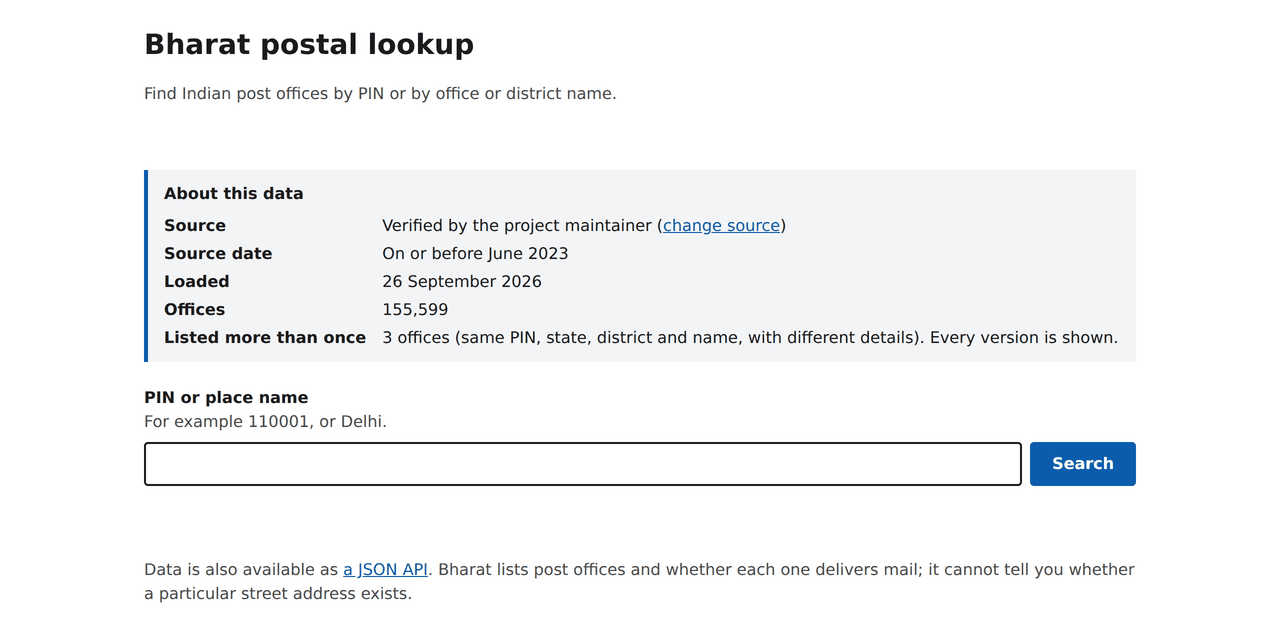
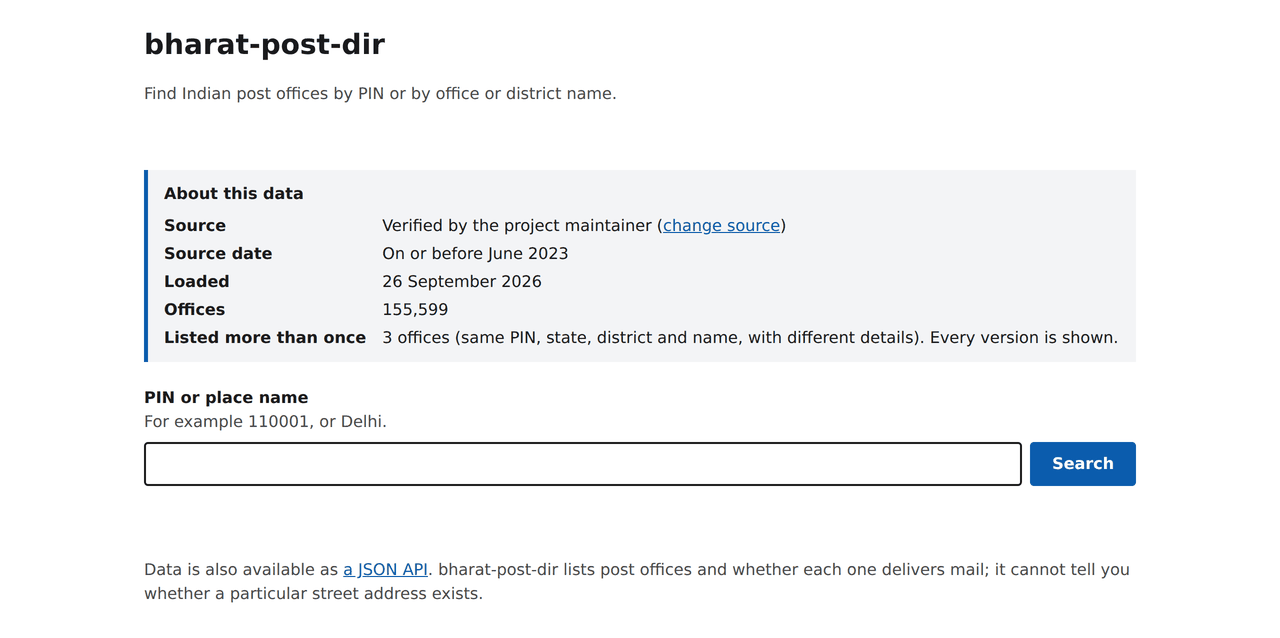
Rename the project to bharat-post-dir and make technical names generic
Everywhere people read the project's name (page titles and headings, the
API docs title, README, CONTRIBUTING, AGENTS, the share note, messages
and comments) it is now bharat-post-dir. The README starts directly with
its description, without a name heading.

Technical names are generic rather than project-named:
BHARAT_ALLOW_SOURCE_CHANGE is now SITE_ALLOW_SOURCE_CHANGE, the upload
cookie is dataset_upload, the container database is /data/db.sqlite3,
the export is post-offices-<date>-<sha>.json, and the documented Docker
names are app, app-demo, app-data and app-net. Nothing is released yet,
so no one depends on the old names.

The screenshots and social preview are retaken with the new name.

Claude-Session: https://claude.ai/code/session_01MUGbgaJkAhwdKZJnZ6vtsr

Changed region(s): [[0.0938, 0.8636, 0.875, 0.953], [0.0938, 0.0596, 0.375, 0.0893]]

diff --git a/postal/templates/postal/source.html b/postal/templates/postal/source.html
@@ -1,6 +1,6 @@
 {% extends "postal/base.html" %}
 
-{% block title %}{% if form.errors %}Error: {% endif %}Change source – Bharat postal lookup{% endblock %}
+{% block title %}{% if form.errors %}Error: {% endif %}Change source – bharat-post-dir{% endblock %}
 
 {% block heading %}Change source{% endblock %}
 
@@ -18,14 +18,14 @@
   {% if saves %}
   <p>The whole file is checked before anything changes. If any row is invalid, the current directory stays exactly as it is. A valid file replaces every office at once.</p>
   {% else %}
-  <p>The whole file is checked first; if any row is invalid, nothing is kept. A valid file is temporary: only this browser sees it, on the lookup page and in search, for {{ hours }} hours or until you go back to the default dataset. The saved directory, the API and the whole-directory download are not changed. To replace the saved directory, run Bharat with <code>DJANGO_DEBUG=true</code>.</p>
+  <p>The whole file is checked first; if any row is invalid, nothing is kept. A valid file is temporary: only this browser sees it, on the lookup page and in search, for {{ hours }} hours or until you go back to the default dataset. The saved directory, the API and the whole-directory download are not changed. To replace the saved directory, run bharat-post-dir with <code>DJANGO_DEBUG=true</code>.</p>
   {% endif %}
 
   <details>
     <summary>What the file must contain</summary>
     <ul>
       <li>CSV: a header row with these columns, in any order: <code>Circle Name</code>, <code>Region Name</code>, <code>Division Name</code>, <code>Office Name</code>, <code>Pincode</code>, <code>OfficeType</code>, <code>Delivery</code>, <code>District</code>, <code>StateName</code>. Spaces, underscores and letter case in column names are ignored.</li>
-      <li>JSON, detected automatically: Bharat's own download from <code>/api/v1/export/</code> (its source and date fill in the fields below if you leave them empty), a data.gov.in API response (<code>{"records": [...]}</code>), or a plain list of offices. Each office uses the CSV column names above or Bharat's field names (<code>office_name</code>, <code>pincode</code>, <code>office_type</code>, <code>delivery</code>, <code>district</code>, <code>state</code>, <code>circle</code>, <code>region</code>, <code>division</code>). Problems are reported by record number.</li>
+      <li>JSON, detected automatically: bharat-post-dir's own download from <code>/api/v1/export/</code> (its source and date fill in the fields below if you leave them empty), a data.gov.in API response (<code>{"records": [...]}</code>), or a plain list of offices. Each office uses the CSV column names above or bharat-post-dir's field names (<code>office_name</code>, <code>pincode</code>, <code>office_type</code>, <code>delivery</code>, <code>district</code>, <code>state</code>, <code>circle</code>, <code>region</code>, <code>division</code>). Problems are reported by record number.</li>
       <li>Optional <code>Latitude</code> and <code>Longitude</code> columns or fields. Other columns are ignored.</li>
       <li>Six-digit PINs that do not start with 0. Every field except Region Name must be filled in.</li>
       <li>Exact repeated rows are merged. An office listed more than once with different details (same PIN, state, district and office name) is kept in every version and counted.</li>
@@ -42,7 +42,7 @@
     </div>
     <div class="field">
       <label for="id_source">Source</label>
-      <p id="source-hint" class="hint">Where the file came from, for example a website address or “Verified by the project maintainer”. Required, except for a Bharat download, which records its own.</p>
+      <p id="source-hint" class="hint">Where the file came from, for example a website address or “Verified by the project maintainer”. Required, except for a bharat-post-dir download, which records its own.</p>
       {% for error in form.source.errors %}<p id="source-error" class="error"><span class="vh">Error:</span> {{ error }}</p>{% endfor %}
       <input id="id_source" name="source" type="text" maxlength="500" value="{{ form.source.value|default_if_none:'' }}"
              aria-describedby="source-hint{% if form.source.errors %} source-error{% endif %}"{% if form.source.errors %} aria-invalid="true"{% endif %}>

diff --git a/postal/templates/postal/lookup.html b/postal/templates/postal/lookup.html
@@ -1,13 +1,13 @@
 {% extends "postal/base.html" %}
 
-{% block title %}{% if error %}Error: {% elif page is not None %}{{ page.paginator.count|floatformat:"g" }} result{{ page.paginator.count|pluralize }} for {{ query }} – {% endif %}Bharat postal lookup{% endblock %}
+{% block title %}{% if error %}Error: {% elif page is not None %}{{ page.paginator.count|floatformat:"g" }} result{{ page.paginator.count|pluralize }} for {{ query }} – {% endif %}bharat-post-dir{% endblock %}
 
 {% block intro %}<p class="muted">Find Indian post offices by PIN or by office or district name.</p>{% endblock %}
 
 {% block content %}
   {% if updated and dataset %}
   {% if upload %}
-  <p class="notice" role="status">Temporary dataset loaded: {{ dataset.row_count|floatformat:"g" }} offices. Only this browser sees it.{% if dataset.repeated_identity_count %} {{ dataset.repeated_identity_count }} office{{ dataset.repeated_identity_count|pluralize:" is,s are" }} listed more than once with different details; every version was kept.{% endif %} To save it and share it with others, run Bharat with <code>DJANGO_DEBUG=true</code> and upload it again.</p>
+  <p class="notice" role="status">Temporary dataset loaded: {{ dataset.row_count|floatformat:"g" }} offices. Only this browser sees it.{% if dataset.repeated_identity_count %} {{ dataset.repeated_identity_count }} office{{ dataset.repeated_identity_count|pluralize:" is,s are" }} listed more than once with different details; every version was kept.{% endif %} To save it and share it with others, run bharat-post-dir with <code>DJANGO_DEBUG=true</code> and upload it again.</p>
   {% else %}
   <p class="notice" role="status">Source updated: {{ dataset.row_count|floatformat:"g" }} offices loaded.{% if dataset.repeated_identity_count %} {{ dataset.repeated_identity_count }} office{{ dataset.repeated_identity_count|pluralize:" is,s are" }} listed more than once with different details; every version was kept.{% endif %}</p>
   {% endif %}
@@ -15,7 +15,7 @@
   {% if share %}
   <section class="source" aria-labelledby="share-heading">
     <h2 id="share-heading">Share this dataset</h2>
-    <p>The new directory is saved in your local <code>db.sqlite3</code>. If others could use it, please share it: commit the file on a branch, then either open a pull request on <a href="{{ share.repository }}">{{ share.repository }}</a> or publish your fork. Bharat is not actively maintained, so a pull request may not be reviewed; a published fork works just as well.</p>
+    <p>The new directory is saved in your local <code>db.sqlite3</code>. If others could use it, please share it: commit the file on a branch, then either open a pull request on <a href="{{ share.repository }}">{{ share.repository }}</a> or publish your fork. bharat-post-dir is not actively maintained, so a pull request may not be reviewed; a published fork works just as well.</p>
     <h3 style="font-size: 1rem; margin: 1rem 0 .25rem;" id="share-commands">Commands, from the repository folder</h3>
     <pre class="table-wrap" tabindex="0" aria-labelledby="share-commands"><code>{{ share.commands }}</code></pre>
     <h3 style="font-size: 1rem; margin: 1rem 0 .25rem;" id="share-description">Description for the pull request or your fork</h3>

diff --git a/postal/templates/postal/base.html b/postal/templates/postal/base.html
@@ -3,7 +3,7 @@
 <head>
 <meta charset="utf-8">
 <meta name="viewport" content="width=device-width, initial-scale=1">
-<title>{% block title %}Bharat postal lookup{% endblock %}</title>
+<title>{% block title %}bharat-post-dir{% endblock %}</title>
 {# An empty data-URI icon stops browsers from making a separate favicon request. #}
 <link rel="icon" href="data:,">
 <style>
@@ -51,14 +51,14 @@
 <body>
 <a class="skip" href="#main">Skip to main content</a>
 <header>
-  <h1>{% block heading %}Bharat postal lookup{% endblock %}</h1>
+  <h1>{% block heading %}bharat-post-dir{% endblock %}</h1>
   {% block intro %}{% endblock %}
 </header>
 <main id="main">
 {% block content %}{% endblock %}
 </main>
 <footer class="muted">
-  <p>Data is also available as <a href="/api/docs/">a JSON API</a>. Bharat lists post offices and whether each one delivers mail; it cannot tell you whether a particular street address exists.</p>
+  <p>Data is also available as <a href="/api/docs/">a JSON API</a>. bharat-post-dir lists post offices and whether each one delivers mail; it cannot tell you whether a particular street address exists.</p>
 </footer>
 </body>
 </html>

diff --git a/tests/test_web.py b/tests/test_web.py
@@ -200,7 +200,7 @@ def test_temporary_upload_is_seen_only_by_this_browser(client, directory, tempor
 
     response = upload(client, GOOD, source_date="2025-06-30")
     assert response.status_code == 302 and response["Location"] == "/?updated=1"
-    cookie = response.cookies["bharat_upload"]
+    cookie = response.cookies["dataset_upload"]
     assert cookie["httponly"] and cookie["samesite"] == "Lax"
     assert len(stored(upload_dir)) == 1
     # The saved directory is untouched.
@@ -253,7 +253,7 @@ def test_back_to_default_deletes_the_upload(client, directory, temporary, upload
     assert client.get("/source/default/").status_code == 405
     response = client.post("/source/default/")
     assert response.status_code == 302 and response["Location"] == "/"
-    assert response.cookies["bharat_upload"].value == ""
+    assert response.cookies["dataset_upload"].value == ""
     assert stored(upload_dir) == []
     html = client.get("/").content.decode()
     assert "test fixture" in html and "expired" not in html
@@ -280,14 +280,14 @@ def test_expired_upload_falls_back_to_default(client, directory, temporary, uplo
     response = client.get("/")
     html = response.content.decode()
     assert "test fixture" in html and "has expired or was removed" in html
-    assert response.cookies["bharat_upload"].value == ""
+    assert response.cookies["dataset_upload"].value == ""
     assert stored(upload_dir) == []
 
 
 def test_tampered_cookie_is_ignored(client, directory, temporary, upload_dir):
     upload(client, GOOD)
     (path,) = stored(upload_dir)
-    client.cookies["bharat_upload"] = path.stem
+    client.cookies["dataset_upload"] = path.stem
     assert "test fixture" in client.get("/").content.decode()
 
 
@@ -315,7 +315,7 @@ def test_uploads_are_capped(directory, temporary, upload_dir, settings):
 def test_rejected_temporary_upload_keeps_nothing(client, directory, temporary, upload_dir):
     response = upload(client, ["C,R,D,Bad,012345,HO,Delivery,X,Y"])
     assert response.status_code == 400 and "Nothing was changed" in response.content.decode()
-    assert stored(upload_dir) == [] and "bharat_upload" not in response.cookies
+    assert stored(upload_dir) == [] and "dataset_upload" not in response.cookies
 
 
 def test_change_source_page_explains_the_mode(client, temporary, settings):
@@ -360,8 +360,8 @@ def test_temporary_upload_points_to_saving_instead_of_sharing(client, directory,
     html = client.get("/?updated=1").content.decode()
     assert "Share this dataset" not in html
     assert (
-        "To save it and share it with others, run Bharat with <code>DJANGO_DEBUG=true</code>"
-        in html
+        "To save it and share it with others, run bharat-post-dir with "
+        "<code>DJANGO_DEBUG=true</code>" in html
     )
 
 
@@ -403,7 +403,7 @@ def upload_file(client, body, name="data.json", **fields):
     return client.post("/source/", data)
 
 
-def test_bharat_export_round_trips_with_its_provenance(client, directory, local):
+def test_export_round_trips_with_its_provenance(client, directory, local):
     from postal.models import Dataset, PostOffice
 
     Dataset.objects.update(source_period="On or before June 2023")

diff --git a/tests/test_import.py b/tests/test_import.py
@@ -247,8 +247,8 @@ def test_migration_counts_repeated_offices_in_an_existing_directory(records):
     assert Dataset.objects.get().repeated_identity_count == 1
 
 
-def bharat_office(name="Office A", **overrides):
-    """An office as Bharat's export and API write it."""
+def export_office(name="Office A", **overrides):
+    """An office as bharat-post-dir's export and API write it."""
     return {
         "pincode": "400001",
         "office_name": name,
@@ -270,17 +270,17 @@ def as_json(document):
     return json.dumps(document).encode()
 
 
-def test_json_bharat_export_carries_its_provenance():
+def test_json_export_carries_its_provenance():
     from postal.importer import parse_upload
 
     raw = as_json(
         {
-            "dataset": {"source": "Bharat mirror", "source_date": "2025-06-30", "row_count": 2},
-            "offices": [bharat_office(), bharat_office("Office B")],
+            "dataset": {"source": "A mirror", "source_date": "2025-06-30", "row_count": 2},
+            "offices": [export_office(), export_office("Office B")],
         }
     )
     parsed, carried = parse_upload(raw)
-    assert carried == {"source": "Bharat mirror", "source_date": date(2025, 6, 30)}
+    assert carried == {"source": "A mirror", "source_date": date(2025, 6, 30)}
     assert [row["office_name"] for row in parsed.offices] == ["Office A", "Office B"]
     assert parsed.offices[0]["state"] == "State" and parsed.offices[0]["region"] == ""
     assert (parsed.offices[0]["latitude"], parsed.offices[0]["longitude"]) == (None, 72.83)
@@ -306,7 +306,7 @@ def test_json_data_gov_in_response_and_plain_lists():
         "District": "Bengaluru",
         "StateName": "Karnataka",
     }
-    for records in ([csv_names], [bharat_office("Listed")]):
+    for records in ([csv_names], [export_office("Listed")]):
         parsed, carried = parse_upload(b"\n  " + as_json(records))
         assert carried == {} and parsed.offices[0]["office_name"] == "Listed"
 
@@ -317,9 +317,9 @@ def test_json_data_gov_in_response_and_plain_lists():
         (b'{"offices": [', "not valid JSON: Expecting value at line 1, column 14"),
         (b'{"rows": []}', "Unrecognized JSON"),
         (b"[]", "no offices"),
-        (as_json([bharat_office(), bharat_office(pincode="0123")]), "record 2: PIN must"),
+        (as_json([export_office(), export_office(pincode="0123")]), "record 2: PIN must"),
         (as_json({"records": [office(), "x"]}), "record 2: missing fields"),
-        (as_json([bharat_office(state=["A"])]), "record 1: fields must be text"),
+        (as_json([export_office(state=["A"])]), "record 1: fields must be text"),
     ],
 )
 def test_bad_json_is_explained(raw, message):

diff --git a/postal/importer.py b/postal/importer.py
@@ -30,7 +30,7 @@ FIELDS = {
     "district": "district",
     "statename": "state",
 }
-# Bharat's own field names (the export and API), normalized like the keys above.
+# bharat-post-dir's own field names (the export and API), normalized like the keys above.
 ALIASES = {
     "state": "statename",
     "circle": "circlename",
@@ -62,7 +62,7 @@ class Snapshot:
 
 def _get_json(url, *, attempts=4, timeout=60):
     """GET a JSON document, retrying transient gateway and network failures."""
-    request = Request(url, headers={"Accept": "application/json", "User-Agent": "bharat"})
+    request = Request(url, headers={"Accept": "application/json", "User-Agent": "bharat-post-dir"})
     for attempt in range(1, attempts + 1):
         try:
             with urlopen(request, timeout=timeout) as response:
@@ -217,13 +217,13 @@ def parse_csv(raw):
 
 
 JSON_SHAPES = (
-    'Bharat\'s export ({"dataset": ..., "offices": [...]}), a data.gov.in response '
+    'bharat-post-dir\'s export ({"dataset": ..., "offices": [...]}), a data.gov.in response '
     '({"records": [...]}) or a list of offices'
 )
 
 
 def _export_details(dataset):
-    """Provenance carried by a Bharat export, used for form fields the uploader left empty."""
+    """Provenance carried by a bharat-post-dir export, for form fields left empty."""
     if not isinstance(dataset, dict):
         return {}
     details = {}
@@ -262,7 +262,7 @@ def parse_json(raw, text=None):
 def parse_upload(raw):
     """Validate an uploaded CSV or JSON file, detected from its content, without writing.
 
-    Returns the parsed dataset and any provenance the file itself carries (a Bharat export).
+    Returns the parsed dataset and any provenance the file itself carries (an export).
     """
     text = _decode(raw)
     if text.lstrip()[:1] in ("{", "["):

diff --git a/tests/test_settings.py b/tests/test_settings.py
@@ -20,7 +20,7 @@ PRINT_SETTINGS = (
 
 def settings_with(tmp_path, **env):
     """Load settings in a fresh interpreter, isolated from this test process."""
-    clean = {k: v for k, v in os.environ.items() if not k.startswith(("DJANGO_", "BHARAT_"))}
+    clean = {k: v for k, v in os.environ.items() if not k.startswith(("DJANGO_", "SITE_"))}
     clean |= {"DJANGO_SETTINGS_MODULE": "config.settings", "SQLITE_PATH": str(tmp_path / "db")}
     result = subprocess.run(
         [sys.executable, "-c", PRINT_SETTINGS],
@@ -76,7 +76,7 @@ def test_contributor_mode_saves_uploads(tmp_path):
 
 
 def test_hosting_turns_change_source_off(tmp_path):
-    loaded = settings_with(tmp_path, BHARAT_ALLOW_SOURCE_CHANGE="false")
+    loaded = settings_with(tmp_path, SITE_ALLOW_SOURCE_CHANGE="false")
     assert loaded["ALLOW_SOURCE_CHANGE"] is False
     # The Docker image is for hosting, so it ships with change source off.
-    assert "ENV BHARAT_ALLOW_SOURCE_CHANGE=false" in (ROOT / "Dockerfile").read_text()
+    assert "ENV SITE_ALLOW_SOURCE_CHANGE=false" in (ROOT / "Dockerfile").read_text()

diff --git a/postal/web.py b/postal/web.py
@@ -96,7 +96,7 @@ def share_details(dataset):
 
 class SourceForm(forms.Form):
     file = forms.FileField(error_messages={"required": "Choose a CSV or JSON file to upload."})
-    # Optional only because a Bharat export carries its own source; checked in clean().
+    # Optional only because a bharat-post-dir export carries its own source; checked in clean().
     source = forms.CharField(max_length=500, required=False)
     source_date = forms.DateField(
         required=False, error_messages={"invalid": "Enter a date like 2025-06-30."}
@@ -121,7 +121,7 @@ class SourceForm(forms.Form):
         except ImportFailure as exc:
             self.add_error("file", str(exc))
             return data
-        # A Bharat export says where its data came from; what the uploader types wins.
+        # A bharat-post-dir export says where its data came from; what the uploader types wins.
         if not data["source"].strip():
             data["source"] = carried.get("source", "")
         if not data["source_date"] and not data["source_period"].strip():

diff --git a/config/settings.py b/config/settings.py
@@ -45,8 +45,8 @@ MIDDLEWARE = [
 ]
 ROOT_URLCONF = "config.urls"
 # The change-source page has no authentication, so it is for local use; hosted sites
-# (including the Docker image) set BHARAT_ALLOW_SOURCE_CHANGE=false.
-ALLOW_SOURCE_CHANGE = env_flag("BHARAT_ALLOW_SOURCE_CHANGE", True)
+# (including the Docker image) set SITE_ALLOW_SOURCE_CHANGE=false.
+ALLOW_SOURCE_CHANGE = env_flag("SITE_ALLOW_SOURCE_CHANGE", True)
 SOURCE_UPLOAD_MAX_BYTES = 100 * 1024 * 1024
 # Contributor mode saves an upload over the database. Otherwise each upload is temporary: a
 # scratch SQLite file that only the uploading browser reads, deleted after a set time.
@@ -90,7 +90,7 @@ REST_FRAMEWORK = {
 }
 SWAGGER_UI_VERSION = "5.33.0"
 SPECTACULAR_SETTINGS = {
-    "TITLE": "Bharat Postal Directory API",
+    "TITLE": "bharat-post-dir API",
     "DESCRIPTION": "Read-only postal lookup. Provenance is available at /api/v1/dataset/.",
     "VERSION": "0.3.0",
     "SERVE_INCLUDE_SCHEMA": False,

diff --git a/tests/test_api.py b/tests/test_api.py
@@ -124,7 +124,7 @@ def test_export_is_one_complete_versioned_file(api, directory):
     assert body["offices"][0].keys() == api.get("/api/v1/offices/").data["results"][0].keys()
     checksum = body["dataset"]["checksum"]
     assert response["ETag"] == f'"{checksum}"'
-    assert f"bharat-offices-undated-{checksum[:12]}.json" in response["Content-Disposition"]
+    assert f"post-offices-undated-{checksum[:12]}.json" in response["Content-Disposition"]
 
     compressed = api.get("/api/v1/export/", HTTP_ACCEPT_ENCODING="gzip")
     assert compressed["Content-Encoding"] == "gzip"

diff --git a/postal/export.py b/postal/export.py
@@ -27,7 +27,7 @@ def _etag(request):
 
 def filename(dataset):
     date = dataset.source_date.isoformat() if dataset.source_date else "undated"
-    return f"bharat-offices-{date}-{dataset.checksum[:12]}.json"
+    return f"post-offices-{date}-{dataset.checksum[:12]}.json"
 
 
 def _stream(dataset):

diff --git a/postal/uploads.py b/postal/uploads.py
@@ -20,7 +20,7 @@ from django.db.utils import load_backend
 from postal.importer import replace_dataset
 from postal.models import Dataset, PostOffice
 
-COOKIE = "bharat_upload"
+COOKIE = "dataset_upload"
 SALT = "postal.uploads"
 TOKEN_RE = re.compile(r"[0-9a-f]{32}")
 
